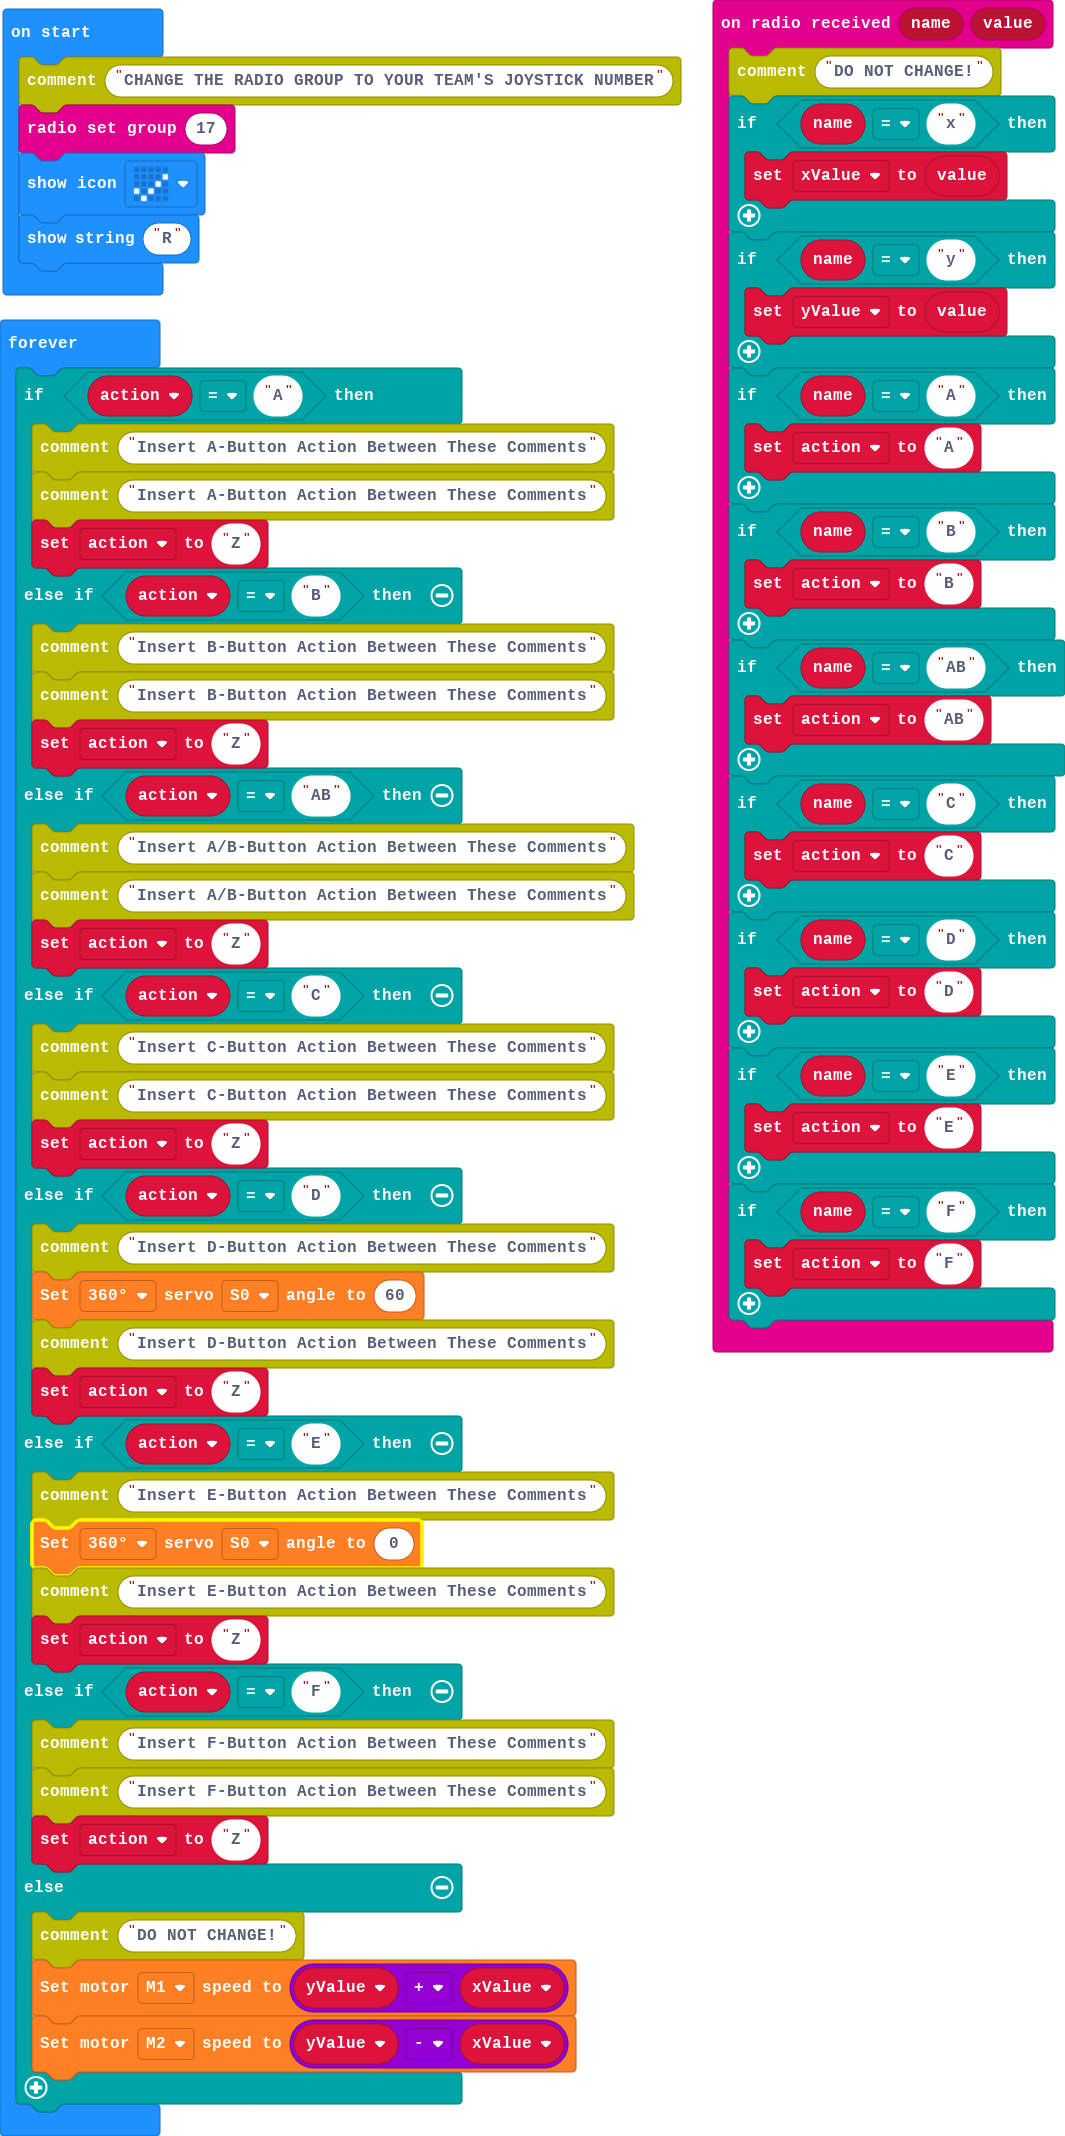
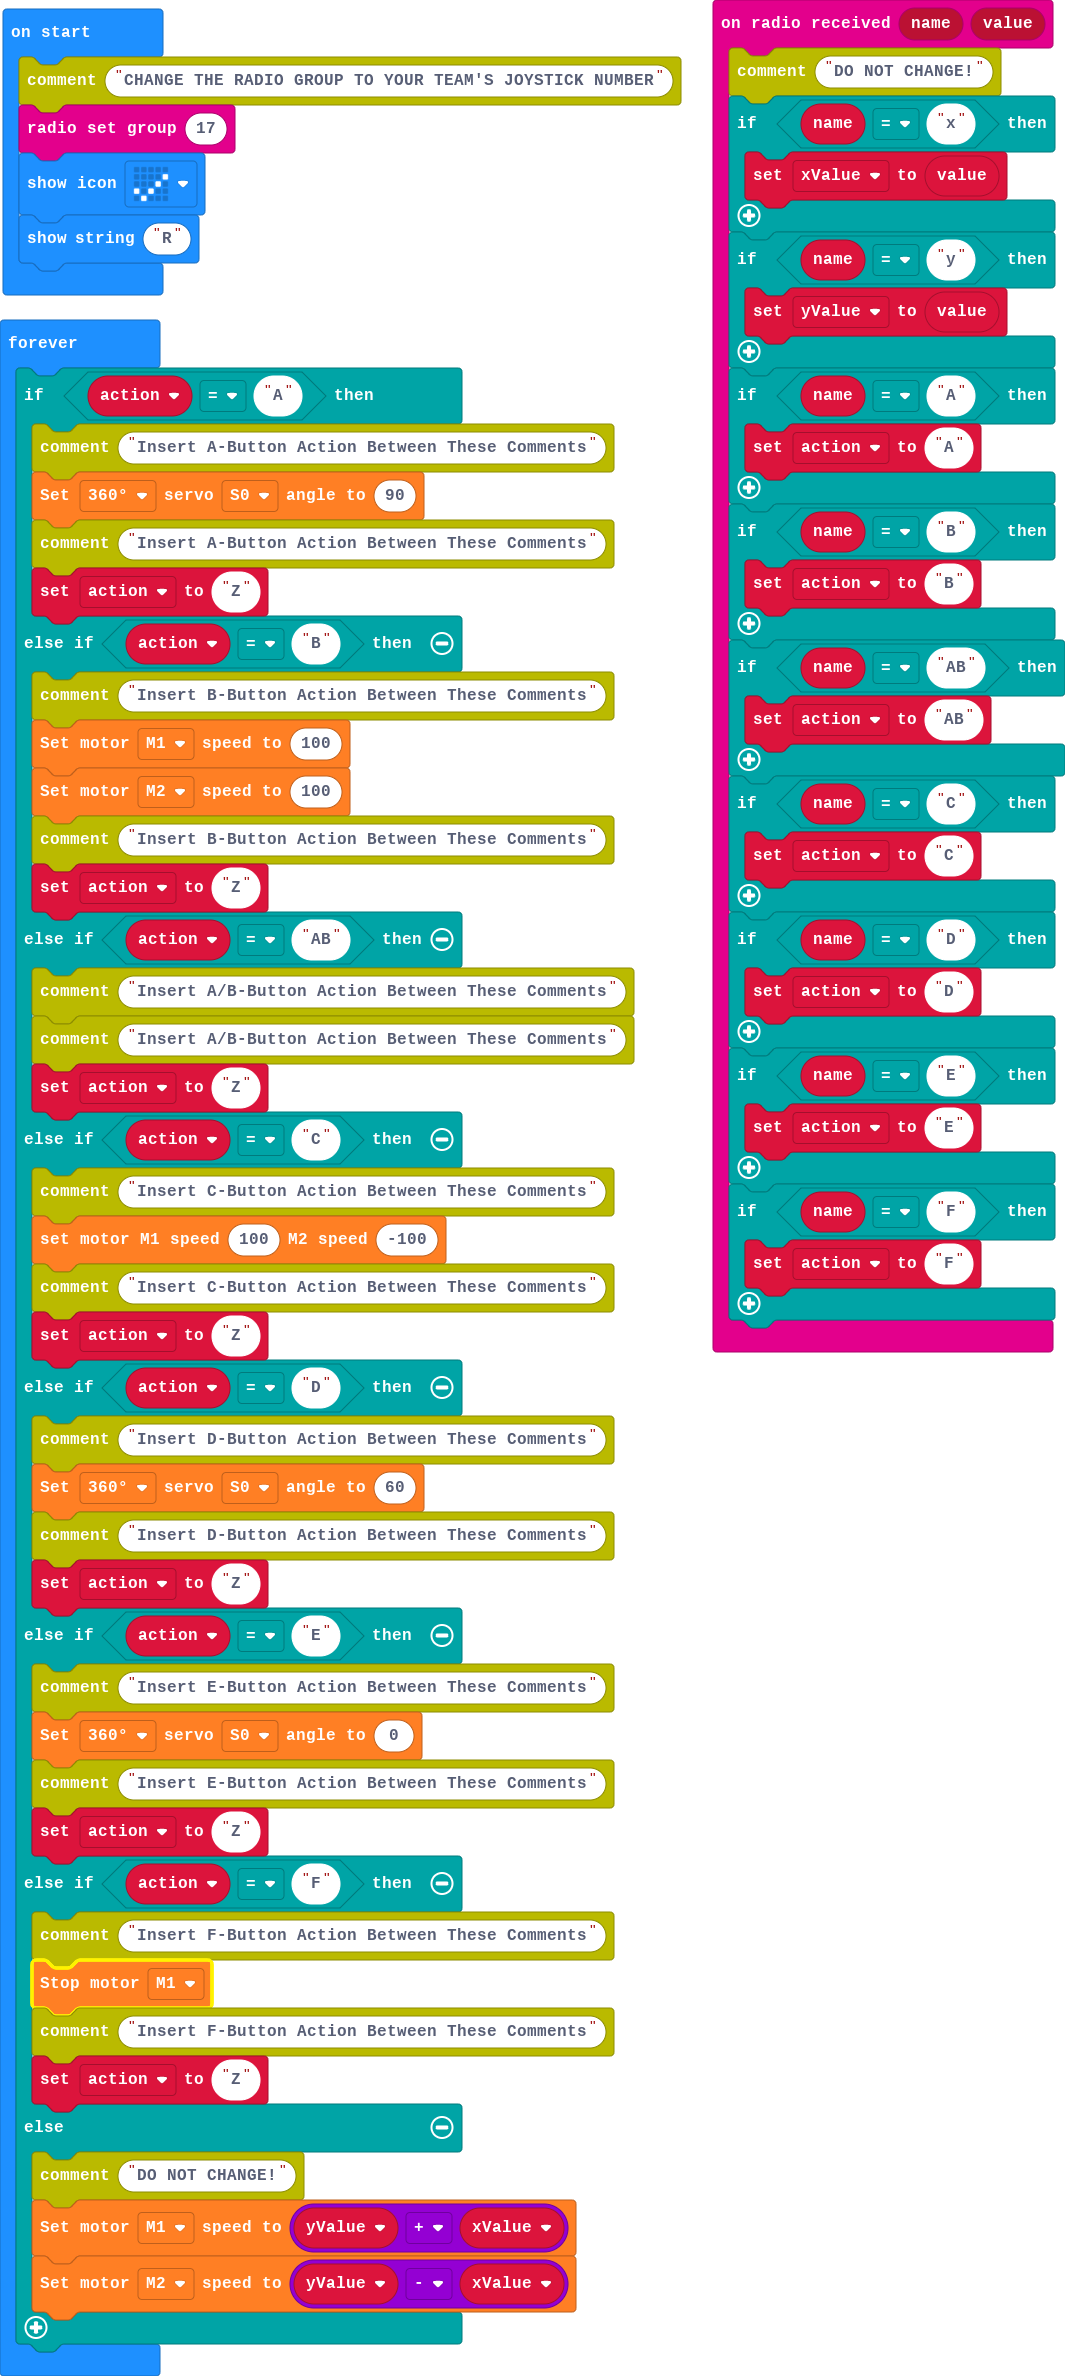
Update main.blocks, main.ts

diff --git a/main.ts b/main.ts
@@ -38,10 +38,13 @@ basic.showString("R")
 basic.forever(function () {
     if (action == "A") {
         comment.comment("Insert A-Button Action Between These Comments")
+        wuKong.setServoAngle(wuKong.ServoTypeList._360, wuKong.ServoList.S0, 90)
         comment.comment("Insert A-Button Action Between These Comments")
         action = "Z"
     } else if (action == "B") {
         comment.comment("Insert B-Button Action Between These Comments")
+        wuKong.setMotorSpeed(wuKong.MotorList.M1, 100)
+        wuKong.setMotorSpeed(wuKong.MotorList.M2, 100)
         comment.comment("Insert B-Button Action Between These Comments")
         action = "Z"
     } else if (action == "AB") {
@@ -50,6 +53,7 @@ basic.forever(function () {
         action = "Z"
     } else if (action == "C") {
         comment.comment("Insert C-Button Action Between These Comments")
+        wuKong.setAllMotor(100, -100)
         comment.comment("Insert C-Button Action Between These Comments")
         action = "Z"
     } else if (action == "D") {
@@ -64,6 +68,7 @@ basic.forever(function () {
         action = "Z"
     } else if (action == "F") {
         comment.comment("Insert F-Button Action Between These Comments")
+        wuKong.stopMotor(wuKong.MotorList.M1)
         comment.comment("Insert F-Button Action Between These Comments")
         action = "Z"
     } else {
